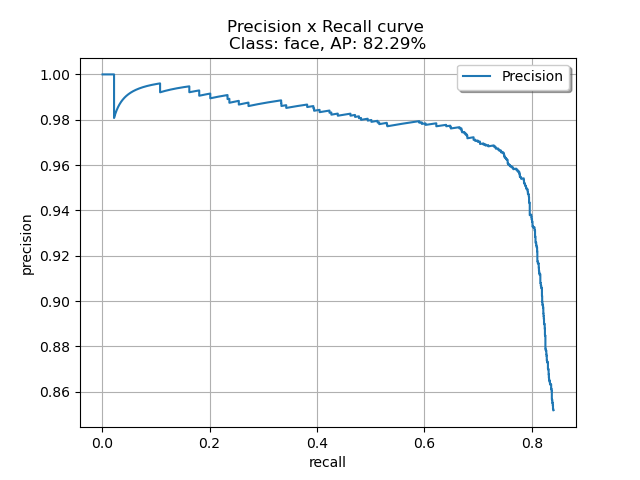
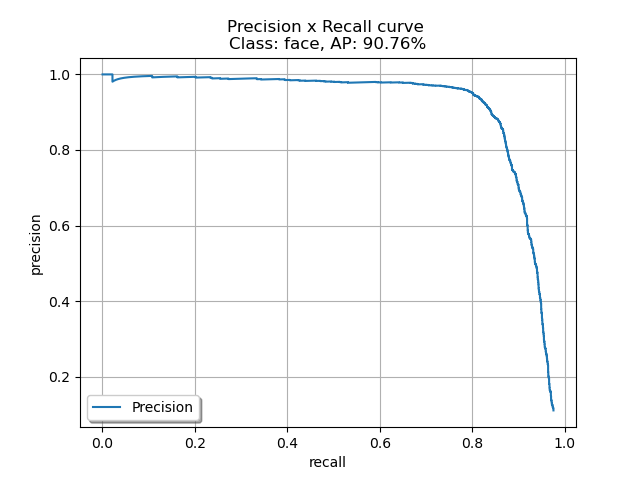
Add latest mAP

diff --git a/README.md b/README.md
@@ -101,11 +101,11 @@ Because of the Adaptive Average Pooling layers, network these days can take vari
 
 ### mAP Achieved
 
-A near state of the art mAP of **84.59** was achieved on the final cleaned dataset.
+A near state of the art mAP of **90.28** was achieved on the final cleaned dataset.
 
 | Face AP | Mask AP |
 |:----------:|:----------:|
-|     82.29%   |    86.89%    |
+|     90.76%   |    89.80%    |
 
 
 Precision-Recall Curves are as follows:
